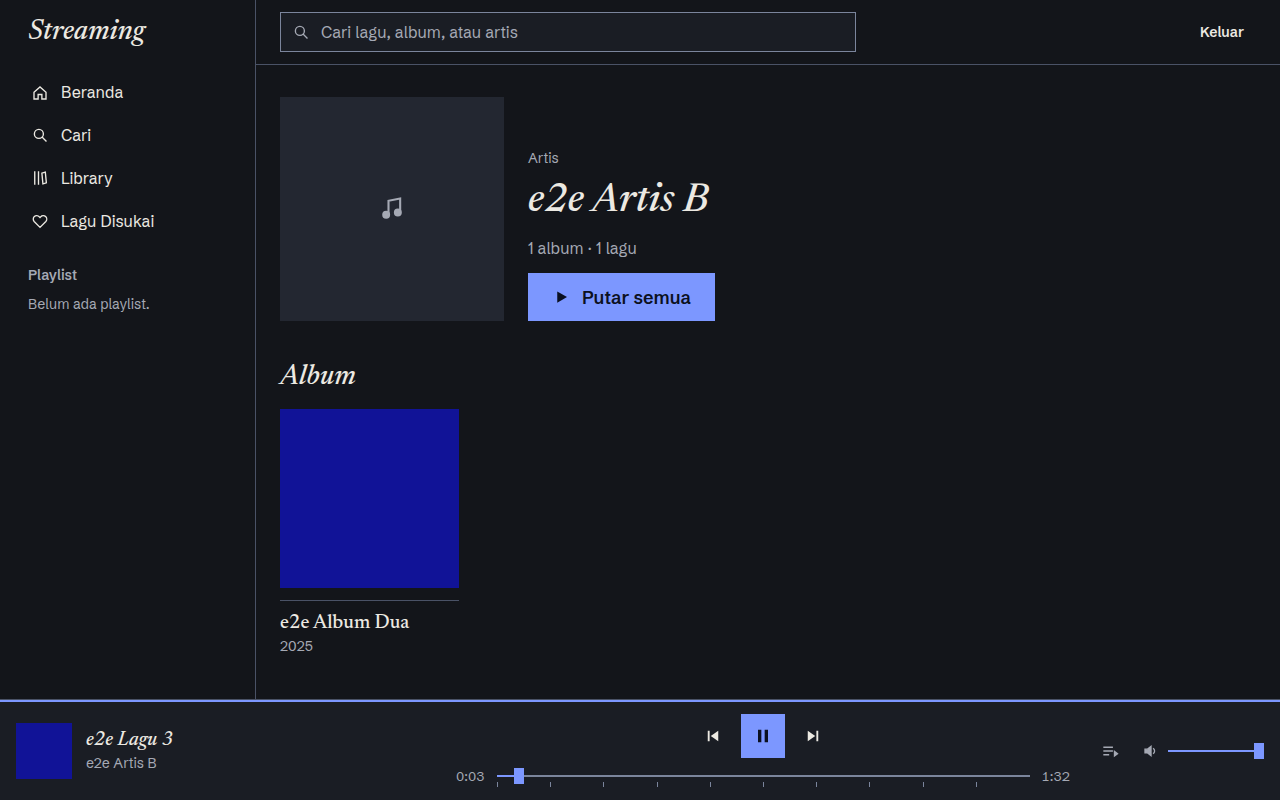
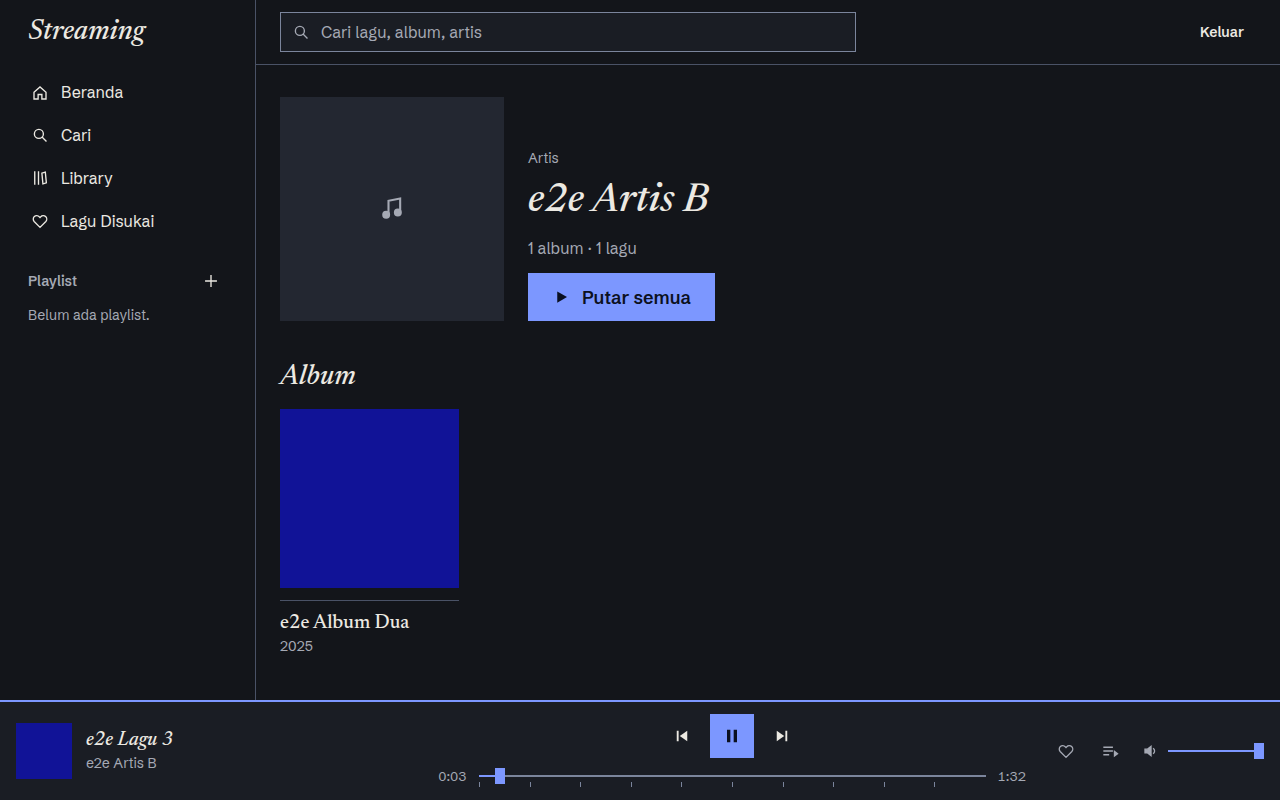
Tangkapan layar per fase: fase2 diperbarui, fase3 dan fase4 baru (desktop 1280px dan ponsel 390px), README per folder

diff --git a/docs/images/fase2/README.md b/docs/images/fase2/README.md
@@ -1,6 +1,6 @@
-# Tangkapan layar Fase 2
+# Fase 2: pemutar dan katalog
 
-Dihasilkan oleh `e2e/screenshots.spec.ts` (Chrome, data contoh sintetis dari CI: sampul 1×1 biru dan MP3 sunyi, bukan konten asli).
+Dihasilkan oleh `e2e/screenshots.spec.ts`. Lihat [`../README.md`](../README.md) untuk cara memperbarui.
 
 | Halaman | Desktop 1280px | Ponsel 390px |
 |---|---|---|
@@ -8,11 +8,7 @@ Dihasilkan oleh `e2e/screenshots.spec.ts` (Chrome, data contoh sintetis dari CI:
 | Album | [desktop-album.png](desktop-album.png) | [ponsel-album.png](ponsel-album.png) |
 | Artis | [desktop-artis.png](desktop-artis.png) | [ponsel-artis.png](ponsel-artis.png) |
 | Antrean | [desktop-antrean.png](desktop-antrean.png) | [ponsel-antrean.png](ponsel-antrean.png) |
+| Pemutar di dasar layar | [desktop-player-bar.png](desktop-player-bar.png) (player bar) | [ponsel-mini-player.png](ponsel-mini-player.png) (mini-player) |
+| Pemutar penuh | | [ponsel-pemutar-penuh.png](ponsel-pemutar-penuh.png) |
 
-Ponsel sesudah redesain: mini-player 1 baris + navigasi bawah tampak di semua gambar ponsel di atas (lagu sedang diputar); pemutar penuh: [ponsel-pemutar-penuh.png](ponsel-pemutar-penuh.png).
-
-`ponsel-sebelum-redesain/` menyimpan tampilan ponsel **sebelum** mini-player dan navigasi bawah, sebagai pembanding.
-
-## Memperbarui
-
-Tidak pernah otomatis. Buka **Actions → e2e → Run workflow**, centang `update_screenshots`, jalankan. Workflow menjalankan seluruh E2E lalu meng-commit gambar baru ke cabang yang dipilih. Atau unduh artefak `e2e-hasil` dari run mana pun dan salin isi `shots/`.
+[`ponsel-sebelum-redesain/`](ponsel-sebelum-redesain/) menyimpan tampilan ponsel **sebelum** mini-player dan navigasi bawah (±220px), sebagai pembanding historis; sengaja tidak diperbarui.

diff --git a/docs/images/fase4/README.md b/docs/images/fase4/README.md
@@ -1,0 +1,11 @@
+# Fase 4: library dan unggah
+
+Dihasilkan oleh `e2e/screenshots-fase34.spec.ts` (Storage dan Auth sungguhan di Supabase CLI). Lihat [`../README.md`](../README.md) untuk cara memperbarui.
+
+| Layar | Desktop 1280px | Ponsel 390px |
+|---|---|---|
+| Library: slot 2/3, sisa waktu, lagu pribadi diputar | [desktop-library.png](desktop-library.png) | [ponsel-library.png](ponsel-library.png) |
+| Unggah: normal | [desktop-unggah-normal.png](desktop-unggah-normal.png) | [ponsel-unggah-normal.png](ponsel-unggah-normal.png) |
+| Unggah: sedang mengunggah (berkas 8 MB, 2 potongan TUS) | [desktop-unggah-sedang-mengunggah.png](desktop-unggah-sedang-mengunggah.png) | [ponsel-unggah-sedang-mengunggah.png](ponsel-unggah-sedang-mengunggah.png) |
+| Unggah: kuota penuh (3/3) | [desktop-unggah-kuota-penuh.png](desktop-unggah-kuota-penuh.png) | [ponsel-unggah-kuota-penuh.png](ponsel-unggah-kuota-penuh.png) |
+| Unggah: `.exe` yang diganti nama menjadi `.mp3` ditolak server | [desktop-unggah-error-mp3-palsu.png](desktop-unggah-error-mp3-palsu.png) | [ponsel-unggah-error-mp3-palsu.png](ponsel-unggah-error-mp3-palsu.png) |

diff --git a/docs/images/README.md b/docs/images/README.md
@@ -1,0 +1,16 @@
+# Tangkapan layar
+
+Dihasilkan oleh E2E (Chrome, `e2e/screenshots*.spec.ts`) terhadap **data contoh sintetis** CI (sampul biru polos, MP3 sunyi), bukan konten asli. Dua ukuran: **desktop 1280px** dan **ponsel 390px**. Disimpan per fase agar tiap gambar menunjukkan tampilan yang berlaku saat fase itu selesai, lalu diperbarui bila UI berubah (supaya tidak menampilkan teks usang).
+
+| Folder | Isi |
+|---|---|
+| [`fase2/`](fase2/README.md) | Beranda, album, artis, antrean, player bar / mini-player, pemutar penuh |
+| [`fase3/`](fase3/README.md) | Pencarian dengan hasil, Lagu Disukai, playlist |
+| [`fase4/`](fase4/README.md) | Library (slot n/3), unggah: normal, sedang mengunggah, kuota penuh, MP3 palsu ditolak |
+
+## Memperbarui
+
+Tidak pernah otomatis pada tiap run. Dua cara:
+
+1. **Manual lewat workflow:** Actions → `e2e` → *Run workflow*, centang `update_screenshots`. Workflow menjalankan seluruh E2E lalu meng-commit isi `test-results/shots/fase2|fase3|fase4` ke `docs/images/`.
+2. **Dari artefak:** unduh artefak `e2e-hasil` dari run mana pun dan salin isi `shots/faseN/` ke folder yang sama.

diff --git a/docs/images/fase3/README.md b/docs/images/fase3/README.md
@@ -1,0 +1,9 @@
+# Fase 3: pencarian, suka, playlist
+
+Dihasilkan oleh `e2e/screenshots-fase34.spec.ts`. Lihat [`../README.md`](../README.md) untuk cara memperbarui.
+
+| Layar | Desktop 1280px | Ponsel 390px |
+|---|---|---|
+| Pencarian dengan hasil (`?q=Lagu`) | [desktop-pencarian.png](desktop-pencarian.png) | [ponsel-pencarian.png](ponsel-pencarian.png) |
+| Lagu Disukai | [desktop-disukai.png](desktop-disukai.png) | [ponsel-disukai.png](ponsel-disukai.png) |
+| Playlist (dua lagu, pemutar aktif) | [desktop-playlist.png](desktop-playlist.png) | [ponsel-playlist.png](ponsel-playlist.png) |
